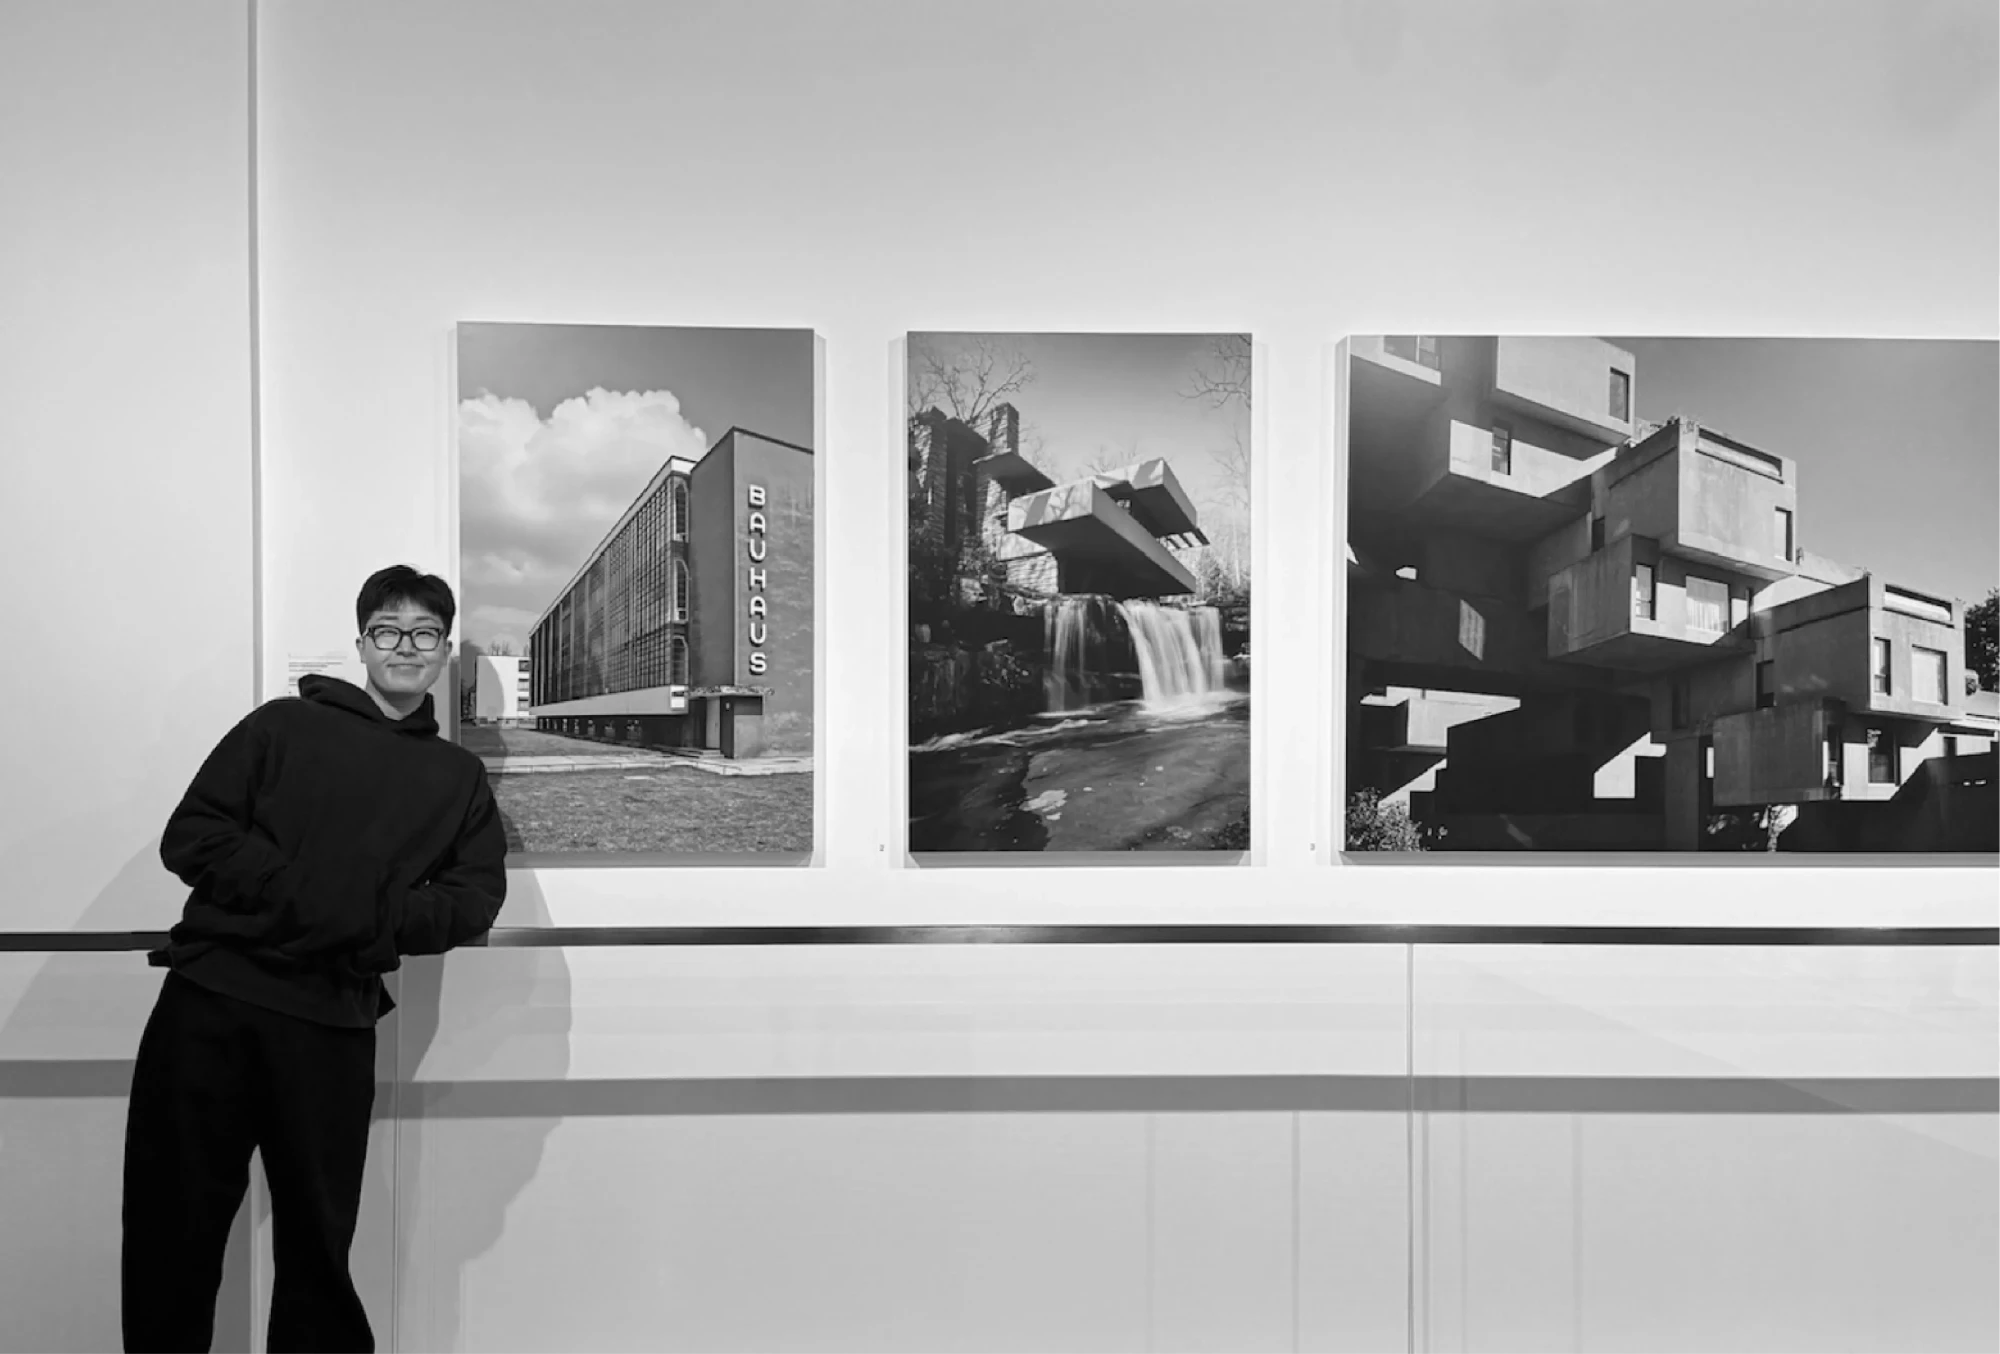
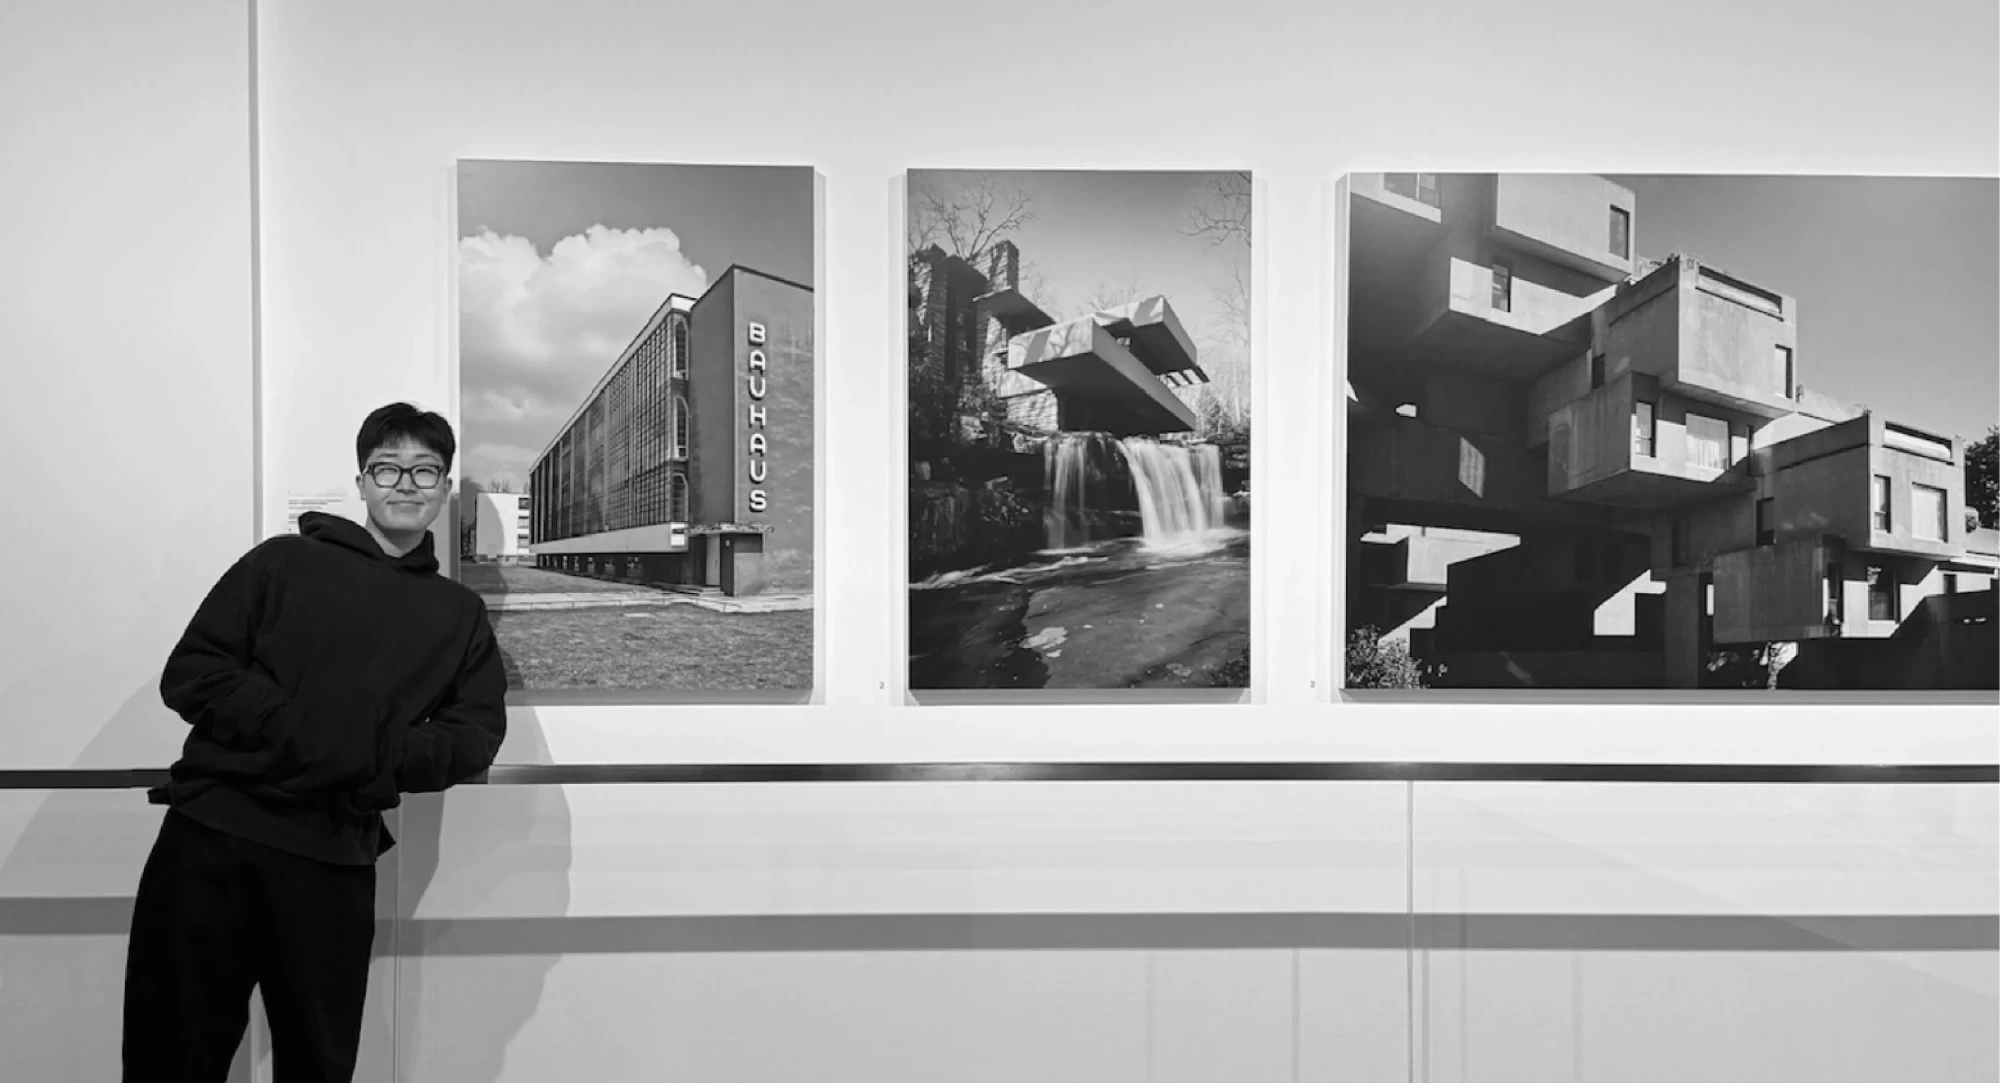
content: the closing line asks for mail and now opens it
Three things on the About page.

Let's chat! is gone from the English copy — the sentence before it already
asks, and the exclamation was doing the asking twice.

The word for mail in that sentence is now the link: email, 이메일, メール,
each sitting inside its own language's grammar rather than being bolted on
the end. Paragraphs already supported segments with inline links — the case
studies use them — so the About page borrows that shape and its noOrphan
handling, which is why reach out via email. still comes down together. Like
the rail's entry it carries no target: a mailto opens the reader's own mail
client, and a new tab would be left blank behind the compose window.

The photograph is cropped 12% off the top and 8% off the bottom, trimming
blank wall above the prints and counter below the rail: 1.48 to 1.85 across.
Cropped from the original before the resize, so the detail is the same;
97 KB against 103. The element's height attribute follows it to 1083, so
the column still does not reflow when the file lands.

Changed region(s): [[0.093, 0.1219, 1.0, 1.0], [0.0, 0.6399, 0.093, 0.8837], [0.093, 0.518, 0.124, 0.5789]]

diff --git a/site/src/pages/AboutPage.jsx b/site/src/pages/AboutPage.jsx
@@ -1,6 +1,6 @@
 import { useEffect, useState } from "react";
 import SiteHeader from "../components/SiteHeader.jsx";
-import { noOrphan } from "../lib/no-orphan.js";
+import { noOrphan, noOrphanSegments } from "../lib/no-orphan.js";
 import SiteFooter from "../components/SiteFooter.jsx";
 import useFitToWidth from "../hooks/useFitToWidth.js";
 import useCanHover from "../hooks/useCanHover.js";
@@ -18,7 +18,13 @@ const PORTRAIT_ALT = {
   ja: "ギャラリーの壁の手すりに寄りかかるハジン。背後には白黒の建築写真が三点 — ファサードに名前が縦に入ったデッサウのバウハウス、滝の上に張り出したフランク・ロイド・ライトの落水荘、コンクリートが積み上がったモシェ・サフディのハビタット67。",
 };
 
-/* Hero sentence + body paragraphs per language */
+/* The one address on the page. The closing paragraph and the rail both link
+   to it, so it is written once. */
+const MAILTO = "mailto:hajinlee.ca@gmail.com";
+
+/* Hero sentence + body paragraphs per language. A paragraph is a string, or
+   an array of segments when it carries an inline link — the word that opens
+   a mail window is part of the sentence in each language's own grammar. */
 const ABOUT = {
   en: {
     hero: "A Product Designer who uncovers user friction within complex environments and resolves it through clear structure and refined visual language.",
@@ -26,7 +32,11 @@ const ABOUT = {
       "To me, great design means identifying the core friction of a challenge and guiding users intuitively to their goals. I analyze user pain points through a critical lens, creating the highest value when translating fragmented information into clear architecture and polished visuals.",
       "In my recent projects, I focused on enhancing existing products by rebuilding layout systems to improve web usability and implementing new CTAs using custom code and libraries. On another project, I participated in the entire product lifecycle—spanning initial ideation, design, development, and marketing—to successfully launch a new service. Having experienced both sides, I can seamlessly adapt to any product cycle and agilely deliver the exact solutions the team needs.",
       "I highly value the process of moving at the same pace and alignment with team members toward a shared vision. I believe our solutions become far more robust when we understand the languages of different functions and communicate with flexibility.",
-      "If you'd like to build clear, meaningful solutions together, or if you have an exciting opportunity, please feel free to reach out via email. Let's chat!",
+      [
+        "If you'd like to build clear, meaningful solutions together, or if you have an exciting opportunity, please feel free to reach out via ",
+        { text: "email", href: MAILTO },
+        ".",
+      ],
     ],
   },
   ko: {
@@ -35,7 +45,11 @@ const ABOUT = {
       "제가 정의하는 좋은 디자인이란 과제의 본질을 파악하여 목표에 직관적으로 도달하도록 돕는 것입니다. 저는 사용자의 페인 포인트를 비판적인 시각으로 분석하고, 파편화된 정보를 명료한 구조와 정교하게 시각적으로 구현할 때 큰 가치를 만들어냅니다.",
       "최근 프로젝트에서는 레이아웃 시스템 재구축을 통한 웹 사용성 개선이나 커스텀 코드와 라이브러리를 활용한 CTA 추가 등 기존 프로덕트를 고도화하는 작업에 집중하였습니다. 또 다른 프로젝트에서는 서비스 기획부터 디자인, 개발, 마케팅까지 신규 서비스를 출시하는 프로덕트의 주기 전반에 참여하였습니다.\n양쪽 경험을 통해, 프로덕트의 어떤 사이클에서도 팀의 방향성에 맞춰 유연하게 필요한 솔루션을 찾아낼 것입니다.",
       "공유된 목표를 위해 팀원들과 같은 시선과 호흡으로 나아가는 과정을 가장 가치 있게 여깁니다. 이 과정에서 서로 다른 직군의 언어를 이해하고 유연하게 소통할 때 솔루션을 더 견고해진다고 믿습니다.",
-      "저와 함께 솔루션을 만들어가고 싶으시거나, 좋은 기회 제안이 있다면 언제든 이메일로 편하게 연락해 주세요!",
+      [
+        "저와 함께 솔루션을 만들어가고 싶으시거나, 좋은 기회 제안이 있다면 언제든 ",
+        { text: "이메일", href: MAILTO },
+        "로 편하게 연락해 주세요!",
+      ],
     ],
   },
   ja: {
@@ -44,7 +58,11 @@ const ABOUT = {
       "私が定義する優れたデザインとは、課題の本質を捉え、ユーザーが直感的に目的に到達できるよう手助けすることです。私はユーザーのペインポイントを批判的な視点で分析し、断片化された情報を明快な構造と精緻なビジュアルへと落とし込むことに大きな価値を生み出します。",
       "最近のプロジェクトでは、レイアウトシステムの再構築によるウェブのユーザビリティ改善や、カスタムコードとライブラリを活用した新たなCTAの追加など、既存プロダクトの高度化（改善）に注力しました。また、別のプロジェクトでは、サービスの企画からデザイン、開発、マーケティングに至るまで、新規サービスをリリースするプロダクトライフサイクル全般を主導しました。両方のフェーズを経験したからこそ、プロダクトのいかなるサイクルにおいてもチームの方向性に合わせ、柔軟に必要なソリューションを導き出すことができます。",
       "共通の目標に向かって、チームメンバーと同じ目線と歩調で進んでいくプロセスを最も大切にしています。この過程において、異なる職種の言語を理解し柔軟にコミュニケーションを取ることで、ソリューションはより堅牢なものになると信じています。",
-      "私と一緒にユーザーのための明快なソリューションを作りたい方や、魅力的な機会のご提案がございましたら、いつでもお気軽にメールにてご連絡ください。お話しできるのを楽しみにしています！",
+      [
+        "私と一緒にユーザーのための明快なソリューションを作りたい方や、魅力的な機会のご提案がございましたら、いつでもお気軽に",
+        { text: "メール", href: MAILTO },
+        "にてご連絡ください。お話しできるのを楽しみにしています！",
+      ],
     ],
   },
 };
@@ -57,7 +75,7 @@ const LINKS = [
   { label: "Resume", href: "#" },
   { label: "GitHub", href: "https://github.com/Jinontheclock" },
   { label: "Instagram", href: "https://www.instagram.com/hj.archiv/" },
-  { label: "E-mail", href: "mailto:hajinlee.ca@gmail.com" },
+  { label: "E-mail", href: MAILTO },
 ];
 
 /* "What I did" descriptions per entry, per language */
@@ -358,13 +376,31 @@ export default function AboutPage({ lang, setLang, fadeClass = "" }) {
               src={portrait}
               alt={PORTRAIT_ALT[lang] || PORTRAIT_ALT.en}
               width="2000"
-              height="1354"
+              height="1083"
               decoding="async"
             />
             <p className="ab-paragraph ab-hero">{noOrphan(about.hero)}</p>
             {about.body.map((para, i) => (
               <p key={i} className="ab-paragraph">
-                {noOrphan(para)}
+                {typeof para === "string"
+                  ? noOrphan(para)
+                  : noOrphanSegments(para).map((seg, j) =>
+                      typeof seg === "string" ? (
+                        seg
+                      ) : (
+                        /* mailto: hands off to the reader's own mail client,
+                           so it must stay in place — a new tab would be left
+                           blank behind the compose window */
+                        <a
+                          key={j}
+                          href={seg.href}
+                          target={seg.href.startsWith("http") ? "_blank" : undefined}
+                          rel={seg.href.startsWith("http") ? "noreferrer" : undefined}
+                        >
+                          {seg.text}
+                        </a>
+                      ),
+                    )}
               </p>
             ))}
 

diff --git a/site/src/styles/about.css b/site/src/styles/about.css
@@ -93,6 +93,20 @@
   white-space: pre-line;
 }
 
+/* a link inside the copy: the sentence's own colour, marked by the rule
+   under it rather than by a colour change — same treatment as the case
+   studies' inline links */
+.ab-paragraph a {
+  color: inherit;
+  text-decoration: underline;
+  text-decoration-thickness: 1px;
+  text-underline-offset: 3px;
+  transition: color var(--duration-fast) var(--easing);
+}
+.ab-paragraph a:hover {
+  color: var(--text-primary);
+}
+
 /* extra air between the hero sentence and the body paragraphs (40px total
    with the 20px content gap) */
 .ab-hero {
